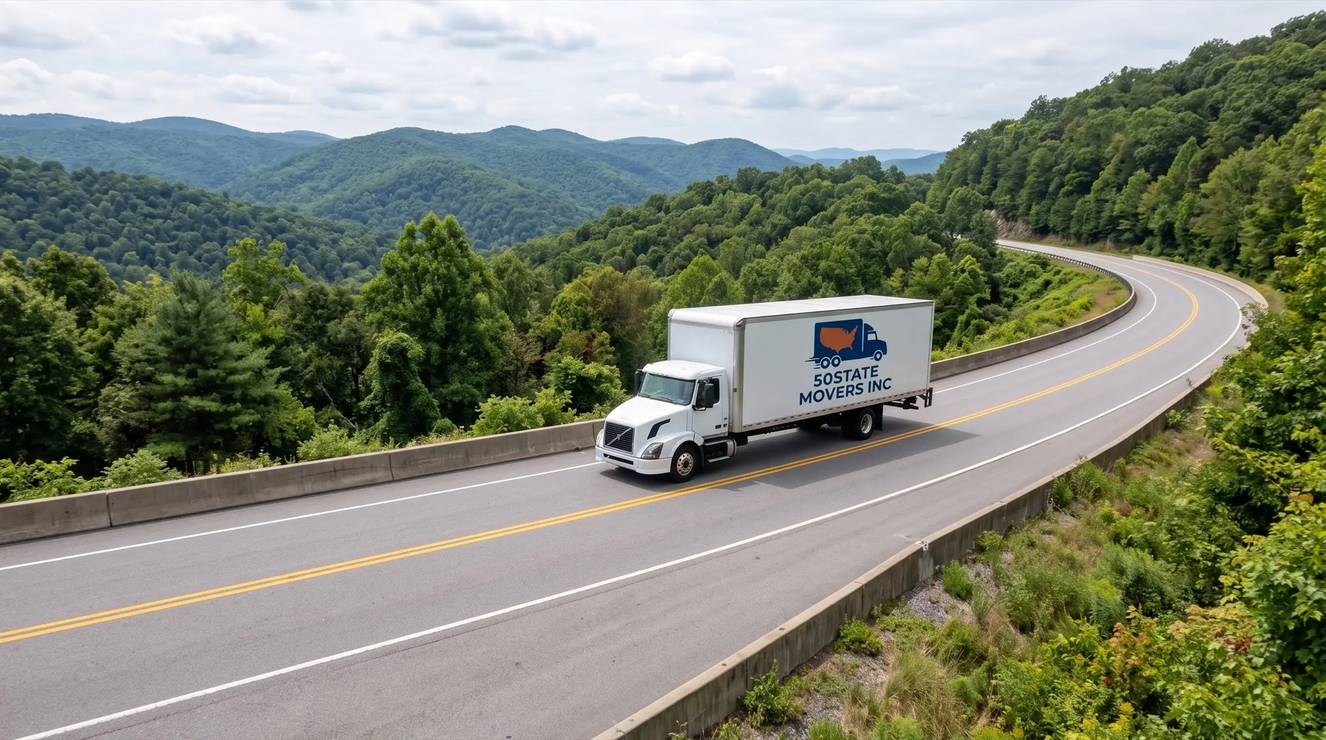
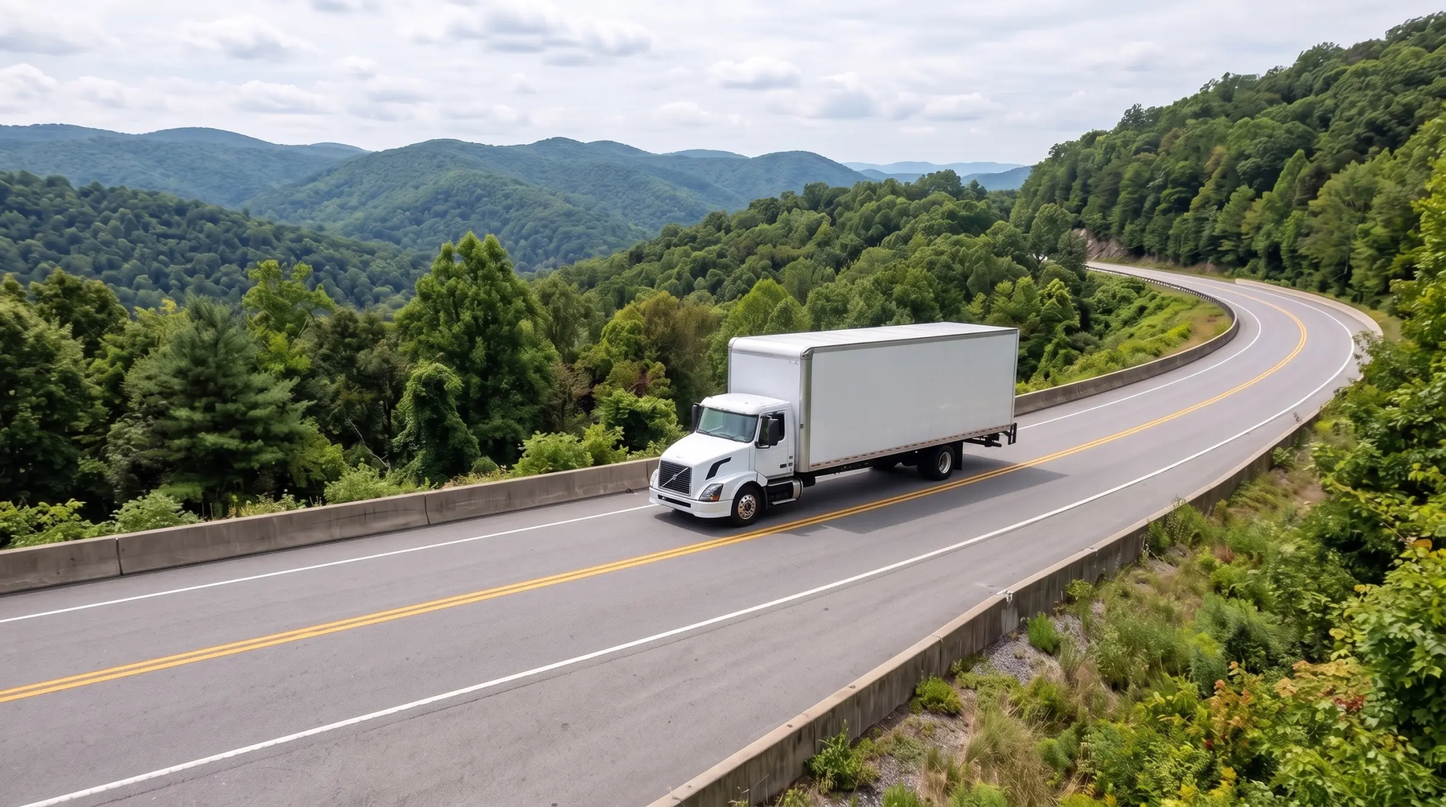
Long-Distance Moving Services: all ten new photos across What we do and On moving day; new mountain-road hero photo
What we do: photos on the Residential, Commercial and Packing cards as well. On moving
day: six frames (Ready to load and Loaded by your crew added). The lab hero
(hero-mountain*.webp) is the new truck-on-a-mountain-road photo, which every page
using the lab hero picks up; the old JPGs and the unused crew-packing photo are gone.

diff --git a/long-distance-moving-services/index.html b/long-distance-moving-services/index.html
@@ -1617,23 +1617,21 @@ height="0" width="0" style="display:none;visibility:hidden"></iframe></noscript>
         <p>We pack, move, unpack, arrange — and hang the art before we leave.</p>
         <span class="tile-more">What’s included <svg viewBox="0 0 24 24" fill="none" stroke="currentColor" stroke-width="2.2" stroke-linecap="round" stroke-linejoin="round"><path d="M5 12h14M13 6l6 6-6 6"/></svg></span>
       </a>
-      <a href="#quote" class="tile tile-dark t-3 reveal" data-service="residential" aria-haspopup="dialog">
+      <a href="#quote" class="tile tile-photo t-3 reveal" data-service="residential" aria-haspopup="dialog">
+        <img src="/assets/images/nyc-florida/slide-6.webp" alt="Moving truck parked in the driveway of a house" loading="lazy" style="object-position: 55% 55%;" />
         <span class="tile-arrow"><svg viewBox="0 0 24 24" fill="none" stroke="currentColor" stroke-width="2.2" stroke-linecap="round"><path d="M5 12h14M13 6l6 6-6 6"/></svg></span>
-        <svg class="tile-mark" viewBox="0 0 24 24" fill="none" stroke="currentColor" stroke-width="1" stroke-linecap="round" stroke-linejoin="round" aria-hidden="true"><path d="M15 21v-8a1 1 0 0 0-1-1h-4a1 1 0 0 0-1 1v8"/><path d="M3 10a2 2 0 0 1 .709-1.528l7-5.999a2 2 0 0 1 2.582 0l7 5.999A2 2 0 0 1 21 10v9a2 2 0 0 1-2 2H5a2 2 0 0 1-2-2z"/></svg>
-        <span class="big-num">01</span>
         <h3>Residential</h3>
         <p>Studios to five-bedroom homes. Taken apart, moved, rebuilt.</p>
       </a>
-      <a href="#quote" class="tile tile-accent t-4 reveal" data-service="commercial" aria-haspopup="dialog">
+      <a href="#quote" class="tile tile-photo t-4 reveal" data-service="commercial" aria-haspopup="dialog">
+        <img src="/assets/images/nyc-florida/slide-5.webp" alt="Shelving, tubs and boxes secured inside a moving truck" loading="lazy" style="object-position: 50% 40%;" />
         <span class="tile-arrow"><svg viewBox="0 0 24 24" fill="none" stroke="currentColor" stroke-width="2.2" stroke-linecap="round"><path d="M5 12h14M13 6l6 6-6 6"/></svg></span>
-        <svg class="tile-mark" viewBox="0 0 24 24" fill="none" stroke="currentColor" stroke-width="1" stroke-linecap="round" stroke-linejoin="round" aria-hidden="true"><path d="M6 22V4a2 2 0 0 1 2-2h8a2 2 0 0 1 2 2v18Z"/><path d="M6 12H4a2 2 0 0 0-2 2v6a2 2 0 0 0 2 2h2"/><path d="M18 9h2a2 2 0 0 1 2 2v9a2 2 0 0 1-2 2h-2"/><path d="M10 6h4"/><path d="M10 10h4"/><path d="M10 14h4"/><path d="M10 18h4"/></svg>
-        <span class="big-num">02</span>
         <h3>Commercial</h3>
         <p>Offices moved over a weekend — working by Monday.</p>
       </a>
-      <a href="#quote" class="tile tile-plain t-5 reveal" data-service="packing" aria-haspopup="dialog">
+      <a href="#quote" class="tile tile-photo t-5 reveal" data-service="packing" aria-haspopup="dialog">
+        <img src="/assets/images/nyc-florida/slide-4.webp" alt="Boxes packed floor to ceiling in the back of a moving truck" loading="lazy" style="object-position: 50% 40%;" />
         <span class="tile-arrow"><svg viewBox="0 0 24 24" fill="none" stroke="currentColor" stroke-width="2.2" stroke-linecap="round"><path d="M5 12h14M13 6l6 6-6 6"/></svg></span>
-        <span class="big-num">03</span>
         <h3>Packing &amp; crating</h3>
         <p>Museum-grade packing and custom crates built on site.</p>
       </a>
@@ -1654,13 +1652,17 @@ height="0" width="0" style="display:none;visibility:hidden"></iframe></noscript>
       <p>Photographs from our own crews. This is what the four parts of your day look like, from the first runner down to the last bed built.</p>
     </div>
     <div class="rail reveal">
-      <article class="frame"><div class="frame-img"><img src="/assets/images/lab/runner-hall.webp" alt="Blue floor runner laid down a hallway" loading="lazy" /><span class="frame-num">1</span></div>
+      <article class="frame"><div class="frame-img"><img src="/assets/images/lab/runner-hall.webp" alt="Blue floor runner laid down a hallway" loading="lazy" style="object-position: 50% 50%;" /><span class="frame-num">1</span></div>
         <h3>Floors protected</h3><p>Runners down and door jambs padded before a single box is carried.</p></article>
-      <article class="frame"><div class="frame-img"><img src="/assets/images/lab/wrapped-furniture.webp" alt="Furniture wrapped in moving blankets" loading="lazy" /><span class="frame-num">2</span></div>
+      <article class="frame"><div class="frame-img"><img src="/assets/images/nyc-florida/settled-in.webp" alt="Furniture wrapped in plastic and blankets in an empty living room" loading="lazy" style="object-position: 50% 50%;" /><span class="frame-num">2</span></div>
         <h3>Everything wrapped</h3><p>Blankets, shrink and tape on every piece — not only the fragile ones.</p></article>
-      <article class="frame"><div class="frame-img"><img src="/assets/images/nyc-florida/new-door.webp" alt="Moving truck parked outside a house on delivery day" style="object-position: 74% 50%;" loading="lazy" /><span class="frame-num">3</span></div>
+      <article class="frame"><div class="frame-img"><img src="/assets/images/nyc-florida/storage.webp" alt="Boxes, bags and storage tubs ready to load" loading="lazy" style="object-position: 40% 50%;" /><span class="frame-num">3</span></div>
+        <h3>Ready to load</h3><p>Every box labelled by room and on the inventory before it goes on the truck.</p></article>
+      <article class="frame"><div class="frame-img"><img src="/assets/images/nyc-florida/slide-2.webp" alt="Two movers loading furniture into a truck from a garage" loading="lazy" style="object-position: 50% 40%;" /><span class="frame-num">4</span></div>
+        <h3>Loaded by your crew</h3><p>The crew that packs your home loads the truck, tier by tier, and strapped row by row.</p></article>
+      <article class="frame"><div class="frame-img"><img src="/assets/images/nyc-florida/new-door.webp" alt="Moving truck parked outside a house on delivery day" loading="lazy" style="object-position: 74% 50%;" /><span class="frame-num">5</span></div>
         <h3>At your new door</h3><p>Unloaded into the rooms you point to, on the date in your contract.</p></article>
-      <article class="frame"><div class="frame-img"><img src="/assets/images/nyc-florida/settled-in.webp" alt="Furniture wrapped in plastic and blankets in an empty living room" style="object-position: 50% 50%;" loading="lazy" /><span class="frame-num">✓</span></div>
+      <article class="frame"><div class="frame-img"><img src="/assets/images/nyc-florida/slide-3.webp" alt="Moving truck ramp leading to the door of a new house" loading="lazy" style="object-position: 30% 50%;" /><span class="frame-num">✓</span></div>
         <h3>Settled in</h3><p>Beds built, furniture placed, and we don't leave until you've signed off.</p></article>
     </div>
     <div class="rail-bar reveal">

diff --git a/scripts/build-moving-services-pages.js b/scripts/build-moving-services-pages.js
@@ -97,13 +97,26 @@ const PAGES = [
   {
     slug: 'long-distance-moving-services',
     noTalk: true,
-    // Photos swapped in What we do and On moving day: [template src, new src, alt, focus].
+    // Photos in What we do: [template src, new src, alt, focus].
     photos: [
       ['/assets/images/lab/street-loading.webp', '/assets/images/nyc-florida/long-distance.webp', 'White box truck parked on a residential street', '50% 45%'],
       ['/assets/images/lab/wrapped-sunroom.webp', '/assets/images/nyc-florida/slide-7.webp', 'Two movers wheeling boxes up the ramp into a moving truck', '40% 40%'],
       ['/assets/images/lab/loading-ramp.webp', '/assets/images/lab/truck-loaded.webp', 'Furniture wrapped in blue moving blankets, stacked and strapped', '50% 50%'],
-      ['/assets/images/lab/truck-branded.webp', '/assets/images/nyc-florida/new-door.webp', 'Moving truck parked outside a house on delivery day', '74% 50%'],
-      ['/assets/images/lab/kitchen.webp', '/assets/images/nyc-florida/settled-in.webp', 'Furniture wrapped in plastic and blankets in an empty living room', '50% 50%'],
+    ],
+    // The three small What we do cards get a photo each: [src, alt, focus].
+    tilePhotos: {
+      residential: ['/assets/images/nyc-florida/slide-6.webp', 'Moving truck parked in the driveway of a house', '55% 55%'],
+      commercial: ['/assets/images/nyc-florida/slide-5.webp', 'Shelving, tubs and boxes secured inside a moving truck', '50% 40%'],
+      packing: ['/assets/images/nyc-florida/slide-4.webp', 'Boxes packed floor to ceiling in the back of a moving truck', '50% 40%'],
+    },
+    // On moving day, in order: [src, alt, focus, title, text]. The last frame gets the check mark.
+    frames: [
+      ['/assets/images/lab/runner-hall.webp', 'Blue floor runner laid down a hallway', '50% 50%', 'Floors protected', 'Runners down and door jambs padded before a single box is carried.'],
+      ['/assets/images/nyc-florida/settled-in.webp', 'Furniture wrapped in plastic and blankets in an empty living room', '50% 50%', 'Everything wrapped', 'Blankets, shrink and tape on every piece — not only the fragile ones.'],
+      ['/assets/images/nyc-florida/storage.webp', 'Boxes, bags and storage tubs ready to load', '40% 50%', 'Ready to load', 'Every box labelled by room and on the inventory before it goes on the truck.'],
+      ['/assets/images/nyc-florida/slide-2.webp', 'Two movers loading furniture into a truck from a garage', '50% 40%', 'Loaded by your crew', 'The crew that packs your home loads the truck, tier by tier, and strapped row by row.'],
+      ['/assets/images/nyc-florida/new-door.webp', 'Moving truck parked outside a house on delivery day', '74% 50%', 'At your new door', 'Unloaded into the rooms you point to, on the date in your contract.'],
+      ['/assets/images/nyc-florida/slide-3.webp', 'Moving truck ramp leading to the door of a new house', '30% 50%', 'Settled in', 'Beds built, furniture placed, and we don\'t leave until you\'ve signed off.'],
     ],
     title: 'Long-Distance Moving Services | Packing & Storage — 50STATEMOVERS INC',
     description:
@@ -455,6 +468,24 @@ function buildPage(page) {
       return `<img src="${to}" alt="${alt}" style="object-position: ${pos};"`;
     });
     if (!html.includes(to)) throw new Error(`build-moving-services-pages: photo ${from} not found`);
+  }
+
+  // ---- photos on the small What we do cards: they become photo cards, the
+  // outline number and the line drawing step aside
+  for (const [svc, [src, alt, pos]] of Object.entries(page.tilePhotos || {})) {
+    const re = new RegExp('<a href="#quote" class="tile tile-(?:dark|accent|plain) (t-[3-5]) reveal" data-service="' + svc + '" aria-haspopup="dialog">([\\s\\S]*?)</a>');
+    if (!re.test(html)) throw new Error(`build-moving-services-pages: tile ${svc} not found`);
+    html = html.replace(re, (m, t, inner) => {
+      inner = inner.replace(/\s*<svg class="tile-mark"[\s\S]*?<\/svg>/, '').replace(/\s*<span class="big-num">[^<]*<\/span>/, '');
+      return `<a href="#quote" class="tile tile-photo ${t} reveal" data-service="${svc}" aria-haspopup="dialog">\n        <img src="${src}" alt="${alt}" loading="lazy" style="object-position: ${pos};" />${inner}</a>`;
+    });
+  }
+
+  // ---- On moving day: the page's own frames
+  if (page.frames) {
+    const frames = page.frames.map(([src, alt, pos, t, d], i) =>
+      `      <article class="frame"><div class="frame-img"><img src="${src}" alt="${alt}" loading="lazy" style="object-position: ${pos};" /><span class="frame-num">${i === page.frames.length - 1 ? '✓' : i + 1}</span></div>\n        <h3>${t}</h3><p>${d}</p></article>`).join('\n');
+    html = swapBlock(html, '    <div class="rail reveal">', '    </div>\n    <div class="rail-bar reveal">', `    <div class="rail reveal">\n${frames}\n    </div>\n    <div class="rail-bar reveal">`, 'rail');
   }
 
   // ---- hero
